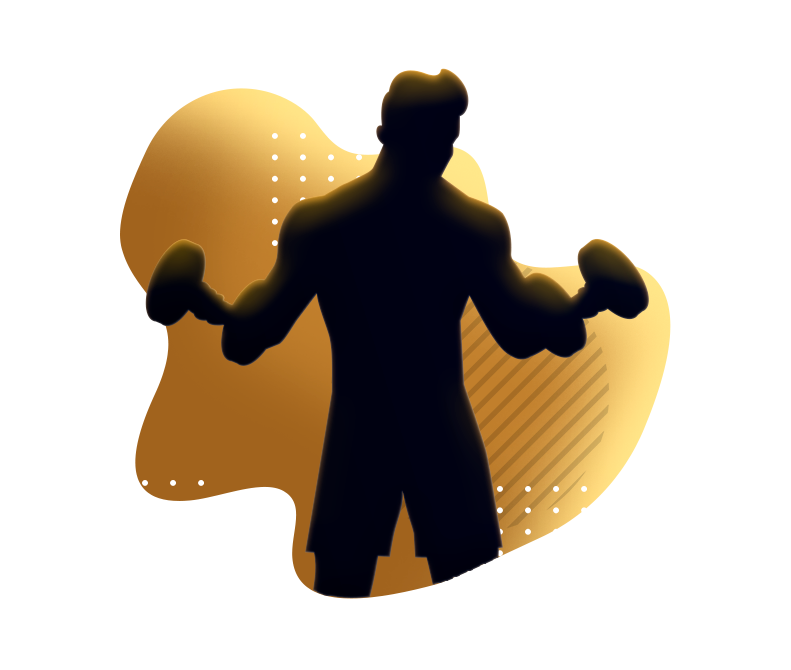
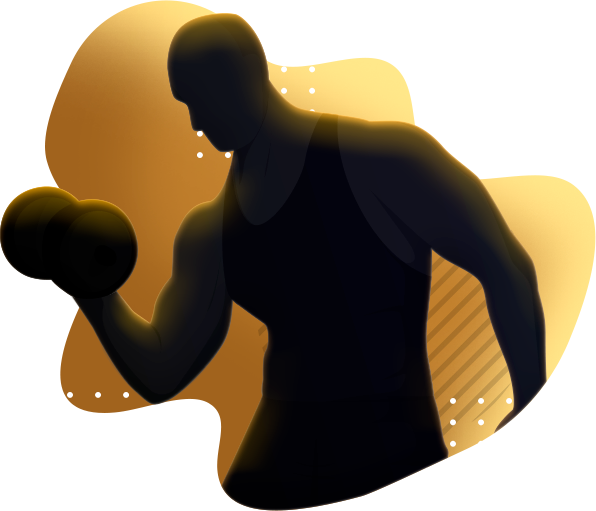
feat: changes imgs to resolution

diff --git a/src/features/questions/worlds/modality/questions.js b/src/features/questions/worlds/modality/questions.js
@@ -1,11 +1,20 @@
-import musculacao from '../../../../assets/imgs/musculacao.png';
-import correr from '../../../../assets/imgs/correr.png';
-import pedalar from '../../../../assets/imgs/pedalar.png';
-import nadar from '../../../../assets/imgs/nadar.png';
-import funcional from '../../../../assets/imgs/funcional.png';
-import yoga from '../../../../assets/imgs/yoga.png';
-import dancar from '../../../../assets/imgs/dancar.png';
-import alongar from '../../../../assets/imgs/alongar.png';
+import musculacao_m from 'assets/imgs/musculacao_m.png';
+import correr_m from 'assets/imgs/correr_m.png';
+import pedalar_m from 'assets/imgs/pedalar_m.png';
+import nadar_m from 'assets/imgs/nadar_m.png';
+import funcional_m from 'assets/imgs/funcional_m.png';
+import yoga_m from 'assets/imgs/yoga_m.png';
+import dancar_m from 'assets/imgs/dancar_m.png';
+import alongar_m from 'assets/imgs/alongar_m.png';
+
+import musculacao_f from 'assets/imgs/musculacao_f.png';
+import correr_f from 'assets/imgs/correr_f.png';
+import pedalar_f from 'assets/imgs/pedalar_f.png';
+import nadar_f from 'assets/imgs/nadar_f.png';
+import funcional_f from 'assets/imgs/funcional_f.png';
+import yoga_f from 'assets/imgs/yoga_f.png';
+import dancar_f from 'assets/imgs/dancar_f.png';
+import alongar_f from 'assets/imgs/alongar_f.png';
 
 export const MODALITY_QUESTIONS = {
   "questions": 
@@ -20,7 +29,7 @@ export const MODALITY_QUESTIONS = {
           {
             id: 1,
             "title": "musculação",
-            "img": musculacao,
+            "img": (sex) => (sex === 'sex-m' ? musculacao_m : musculacao_f),
             points: [
               {
                 chart: "MICRO_GYM",
@@ -38,7 +47,7 @@ export const MODALITY_QUESTIONS = {
           {
             id: 2,
             "title": "correr",
-            "img": correr,
+            "img": (sex) => (sex === 'sex-m' ? correr_m : correr_f),
             points: [
               {
                 chart: "MICRO_GYM",
@@ -56,7 +65,7 @@ export const MODALITY_QUESTIONS = {
           {
             id: 3,
             "title": "pedalar",
-            "img": pedalar,
+            "img": (sex) => (sex === 'sex-m' ? pedalar_m : pedalar_f),
             points: [
               {
                 chart: "MICRO_GYM",
@@ -74,7 +83,7 @@ export const MODALITY_QUESTIONS = {
           {
             id: 4,
             "title": "nadar",
-            "img": nadar,
+            "img": (sex) => (sex === 'sex-m' ? nadar_m : nadar_f),
             points: [
               {
                 chart: "MICRO_GYM",
@@ -92,7 +101,7 @@ export const MODALITY_QUESTIONS = {
           {
             id: 5,
             "title": "funcional",
-            "img": funcional,
+            "img": (sex) => (sex === 'sex-m' ? funcional_m : funcional_f),
             points: [
               {
                 chart: "MICRO_GYM",
@@ -110,7 +119,7 @@ export const MODALITY_QUESTIONS = {
           {
             id: 6,
             "title": "yoga",
-            "img": yoga,
+            "img": (sex) => (sex === 'sex-m' ? yoga_m : yoga_f),
             points: [
               {
                 chart: "MICRO_GYM",
@@ -128,7 +137,7 @@ export const MODALITY_QUESTIONS = {
           {
             id: 7,
             "title": "dançar",
-            "img": dancar,
+            "img": (sex) => (sex === 'sex-m' ? dancar_m : dancar_f),
             points: [
               {
                 chart: "MICRO_GYM",
@@ -146,7 +155,7 @@ export const MODALITY_QUESTIONS = {
           {
             id: 8,
             "title": "alongar",
-            "img": alongar,
+            "img": (sex) => (sex === 'sex-m' ? alongar_m : alongar_f),
             points: [
               {
                 chart: "MICRO_GYM",

diff --git a/src/features/questions/profile/questions.js b/src/features/questions/profile/questions.js
@@ -1,8 +1,14 @@
-import bem_estar_m from '../../../assets/imgs/avatar_bemestar_m.png';
-import espiritual_m from '../../../assets/imgs/avatar_espiritual_m.png';
-import estetico_m from '../../../assets/imgs/avatar_estetico_m.png';
-import resistencia_m from '../../../assets/imgs/avatar_resistencia_m.png';
-import sociavel_m from '../../../assets/imgs/avatar_sociavel_m.png';
+import bem_estar_m from 'assets/imgs/avatar_bemestar_m.png';
+import espiritual_m from 'assets/imgs/avatar_espiritual_m.png';
+import estetico_m from 'assets/imgs/avatar_estetico_m.png';
+import resistencia_m from 'assets/imgs/avatar_resistencia_m.png';
+import sociavel_m from 'assets/imgs/avatar_sociavel_m.png';
+
+import bem_estar_f from 'assets/imgs/avatar_bemestar_f.png';
+import espiritual_f from 'assets/imgs/avatar_espiritual_f.png';
+import estetico_f from 'assets/imgs/avatar_estetico_f.png';
+import resistencia_f from 'assets/imgs/avatar_resistencia_f.png';
+import sociavel_f from 'assets/imgs/avatar_sociavel_f.png';
 
 export const AVATAR_QUESTIONS = {
   "questions": 
@@ -16,7 +22,7 @@ export const AVATAR_QUESTIONS = {
           {
             id: 1,
             "title": "bem-estar",
-            "img": bem_estar_m,
+            "img": (sex) => (sex === 'sex-m' ? bem_estar_m : bem_estar_f),
             points: [
               {
                 chart: "MICRO_GYM",
@@ -43,7 +49,7 @@ export const AVATAR_QUESTIONS = {
           {
             id: 2,
             "title": "resistencia e energia",
-            "img": resistencia_m,
+            "img": (sex) => (sex === 'sex-m' ? resistencia_m : resistencia_f),
             points: [
               {
                 chart: "MICRO_GYM",
@@ -70,7 +76,7 @@ export const AVATAR_QUESTIONS = {
           {
             id: 3,
             "title": "sociavel",
-            "img": sociavel_m,
+            "img": (sex) => (sex === 'sex-m' ? sociavel_m : sociavel_f),
             points: [
               {
                 chart: "MICRO_GYM",
@@ -97,7 +103,7 @@ export const AVATAR_QUESTIONS = {
           {
             id: 4,
             "title": "estético",
-            "img": estetico_m,
+            "img": (sex) => (sex === 'sex-m' ? estetico_m : estetico_f),
             points: [
               {
                 chart: "MICRO_GYM",
@@ -124,7 +130,7 @@ export const AVATAR_QUESTIONS = {
           {
             id: 5,
             "title": "espiritual",
-            "img": espiritual_m,
+            "img": (sex) => (sex === 'sex-m' ? espiritual_m : espiritual_f),
             points: [
               {
                 chart: "MICRO_GYM",

diff --git a/src/features/questions/worlds/health/questions.js b/src/features/questions/worlds/health/questions.js
@@ -1,3 +1,13 @@
+import training_m from 'assets/imgs/training_m.png';
+import not_training_m from 'assets/imgs/not_training_m.png';
+import never_training_m from 'assets/imgs/never_training_m.png';
+import sporadically_training_m from 'assets/imgs/sporadically_training_m.png';
+
+import training_f from 'assets/imgs/training_f.png';
+import not_training_f from 'assets/imgs/not_training_f.png';
+import never_training_f from 'assets/imgs/never_training_f.png';
+import sporadically_training_f from 'assets/imgs/sporadically_training_f.png';
+
 export const HEALTH_QUESTIONS = {
   "questions": 
     [
@@ -11,6 +21,7 @@ export const HEALTH_QUESTIONS = {
             "id": 1,
             "title": "Estou treinando",
             "icon": "",
+            "img": (sex) => (sex === 'sex-m' ? training_m : training_f),
             points: [
               {
                 chart: "BODYBUILDING_PROGRAMS",
@@ -27,6 +38,7 @@ export const HEALTH_QUESTIONS = {
             "id": 2,
             "title": "Treino esporadicamente",
             "icon": "",
+            "img": (sex) => (sex === 'sex-m' ? sporadically_training_m : sporadically_training_f),
             points: [
               {
                 chart: "BODYBUILDING_PROGRAMS",
@@ -43,6 +55,7 @@ export const HEALTH_QUESTIONS = {
             "id": 3,
             "title": "Não estou treinando",
             "icon": "",
+            "img": (sex) => (sex === 'sex-m' ? not_training_m : not_training_f),
             points: [
               {
                 chart: "BODYBUILDING_PROGRAMS",
@@ -59,6 +72,7 @@ export const HEALTH_QUESTIONS = {
             "id": 4,
             "title": "Nunca treinei",
             "icon": "",
+            "img": (sex) => (sex === 'sex-m' ? never_training_m : never_training_f),
             points: [
               {
                 chart: "BODYBUILDING_PROGRAMS",

diff --git a/src/features/questions/worlds/health/containers/Imc.js b/src/features/questions/worlds/health/containers/Imc.js
@@ -5,9 +5,10 @@ import { Animated } from "react-animated-css";
 // internal
 import * as actions from 'state/main/actions';
 import { AlertMsg, Loader, Logo, InputSlider, ProgressBar } from 'ui';
-import { saveResponseWorld, calculatePoints } from 'shared/utils';
+import { saveResponseWorld, calculatePoints, getStorageItem } from 'shared/utils';
 import NextButton from 'features/questions/components/nextButton/NextButton';
-import walking from 'assets/imgs/person_walking.png';
+import walking_m from 'assets/imgs/person_walking_m.png';
+import walking_f from 'assets/imgs/person_walking_f.png';
 import { WorldName } from '../../components/';
 import { HEALTH_QUESTIONS, POINTS_IMC } from '../questions';
 //style
@@ -81,7 +82,7 @@ const HealthImc = () => {
 
           <Animated style={{width: '33%'}} animationInDelay={2000} animationInDuration={2000} animationIn="fadeIn" isVisible={true}>
             <div className="response-item img-left">
-              <img src={walking} Style="width: 33em;"/>
+              <img src={getStorageItem('persona')['sex'] === 'sex-m' ? walking_m : walking_f} Style="width: 27em;"/>
             </div>
           </Animated>
           

diff --git a/src/features/questions/worlds/modality/containers/Modality.js b/src/features/questions/worlds/modality/containers/Modality.js
@@ -5,7 +5,7 @@ import { Animated } from "react-animated-css";
 // internal
 import * as actions from 'state/main/actions';
 import { AlertMsg, Loader, Logo, ProgressBar } from 'ui';
-import { saveResponseWorld, calculatePoints } from 'shared/utils';
+import { saveResponseWorld, calculatePoints, getStorageItem } from 'shared/utils';
 import NextButton from 'features/questions/components/nextButton/NextButton';
 import Question from 'features/questions/components/question/Question';
 import { CardSelectModality } from '../components';
@@ -76,7 +76,7 @@ const Modality = () => {
               MODALITY_QUESTIONS.questions[0].responses.map((response, index) => (
                 <Animated animationInDelay={(index + 1) * 250} animationInDuration={1000} animationIn="rotateIn" isVisible={true}>
                   <CardSelectModality
-                    img={response.img}
+                    img={response.img(getStorageItem('persona')['sex'])}
                     text={response.title}
                     onSelectItem={() => onSelectItem(response.title, response.points)}
                     isSelected={selectedItems.find(i => i === response.title)}

diff --git a/src/features/questions/worlds/health/containers/Energy.js b/src/features/questions/worlds/health/containers/Energy.js
@@ -5,9 +5,10 @@ import { Animated } from "react-animated-css";
 // internal
 import * as actions from 'state/main/actions';
 import { AlertMsg, Loader, Logo, InputSlider, ProgressBar } from 'ui';
-import { saveResponseWorld } from 'shared/utils';
+import { saveResponseWorld, getStorageItem } from 'shared/utils';
 import NextButton from 'features/questions/components/nextButton/NextButton';
-import walking from 'assets/imgs/person_walking.png';
+import walking_m from 'assets/imgs/person_walking_m.png';
+import walking_f from 'assets/imgs/person_walking_f.png';
 import { WorldName } from '../../components/';
 import { HEALTH_QUESTIONS } from '../questions';
 //style
@@ -70,7 +71,7 @@ const HealthEnergy = () => {
 
           <Animated style={{width: '50%'}} animationInDelay={2000} animationInDuration={2000} animationIn="fadeIn" isVisible={true}>
             <div className="response-item img-right">
-              <img src={walking} className="img-walking" />
+              <img src={getStorageItem('persona')['sex'] === 'sex-m' ? walking_m : walking_f} className="img-walking"/>
             </div>
           </Animated>
           

diff --git a/src/features/questions/worlds/health/containers/Physical.js b/src/features/questions/worlds/health/containers/Physical.js
@@ -7,7 +7,7 @@ import * as actions from 'state/main/actions';
 import { AlertMsg, Loader, Logo, ProgressBar } from 'ui';
 import Question from 'features/questions/components/question/Question';
 import NextButton from 'features/questions/components/nextButton/NextButton';
-import { saveResponseWorld, calculatePoints } from 'shared/utils';
+import { saveResponseWorld, calculatePoints, getStorageItem } from 'shared/utils';
 import { WorldName } from '../../components/';
 import { CardSelectItem, SelectItemLine } from '../components';
 import { HEALTH_QUESTIONS } from '../questions';
@@ -50,6 +50,7 @@ const HealthPhysical = () => {
                     icon=''
                     isSelected={selectedItem === index}
                     onSelectItem={() => setSelectedItem(index)}
+                    imgSrc={response.img(getStorageItem('persona')['sex'])}
                   />
                 </Animated>
               ))

diff --git a/src/features/questions/profile/containers/Avatar.js b/src/features/questions/profile/containers/Avatar.js
@@ -49,8 +49,8 @@ const Avatar = () => {
                   className={index == 2 ? "avatar-item center" : "avatar-item"}
                   onClick={() => setSelectedItem(index)}
                 >
-                  <p className={selectedItem === index && 'selected'}>{response.title}</p>
-                  <img src={response.img} />
+                  {/* <p className={selectedItem === index && 'selected'}>{response.title}</p> */}
+                  <img src={response.img(getStorageItem('persona')['sex'])} className={selectedItem === index && 'selected'}/>
                 </div>
               </Animated>
             ))

diff --git a/src/features/questions/worlds/health/components/cardSelectItem/CardSelectItem.js b/src/features/questions/worlds/health/components/cardSelectItem/CardSelectItem.js
@@ -4,13 +4,15 @@ import React from 'react';
 //style
 import './CardSelectItem.scss';
 
-const CardSelectItem = ({ isSelected, text, icon, onSelectItem }) => {
+const CardSelectItem = ({ isSelected, text, imgSrc, onSelectItem }) => {
   return (
     <div 
       className={!isSelected ? 'card-select-question' : 'card-select-question selected'}
       onClick={onSelectItem}
     >
-      <div>{ icon }</div>
+      <img src={imgSrc} Style="width: 220px;
+    margin-left: 6em;
+    margin-top: -5em;"/>
       <div className="text-card-select-item ">{ text }</div>
     </div>
   )

diff --git a/src/features/questions/profile/containers/Avatar.scss b/src/features/questions/profile/containers/Avatar.scss
@@ -5,6 +5,7 @@
   width: 100%;
   height: 100%;
   position: absolute;
+  overflow: hidden !important;
 }
 
 .container-select-avatar {
@@ -18,7 +19,7 @@
 
 .avatar-item {
   width: 25em;
-  margin: -4em 0em;
+  margin: -1em 0em;
   min-width: 30em;
 
   &.center {
@@ -26,7 +27,18 @@
   }
 
   img {
-    width: 100%;
+    width: 60%;
+
+    &.selected {
+      width: 65%;
+      border: solid 1px white;
+      border-radius: 50%;
+      padding: 10px;
+    }
+
+    @media screen and (max-width: 768px) {
+      width: 50%;
+    }
   }
 
   p {

diff --git a/src/features/questions/worlds/health/components/cardSelectItem/CardSelectItem.scss b/src/features/questions/worlds/health/components/cardSelectItem/CardSelectItem.scss
@@ -3,10 +3,10 @@
   width: 27em;
   height: 17em;
   border-radius: 10px;
-  margin: 25px;
+  margin: 50px 25px;
 
   &.selected {
-    outline: solid 6px #10c27d;
+    border-bottom: solid 13px #10c27d;
   }
 }
 
@@ -16,6 +16,6 @@
   font-family: Roboto;
   margin: 20px;
   position: relative;
-  top: 7em;
+  top: -0.5em;
   text-transform: uppercase;
 }

diff --git a/src/features/questions/worlds/modality/components/cardSelectModality/CardSelectModality.scss b/src/features/questions/worlds/modality/components/cardSelectModality/CardSelectModality.scss
@@ -17,11 +17,11 @@
   font-family: Roboto;
   margin: 14px;
   position: relative;
-  top: -1.5em;
+  top: 0.5em;
   text-transform: uppercase;
   text-align: center;
 }
 
 .img-card {
-  width: 13em;
+  width: 12em;
 }
